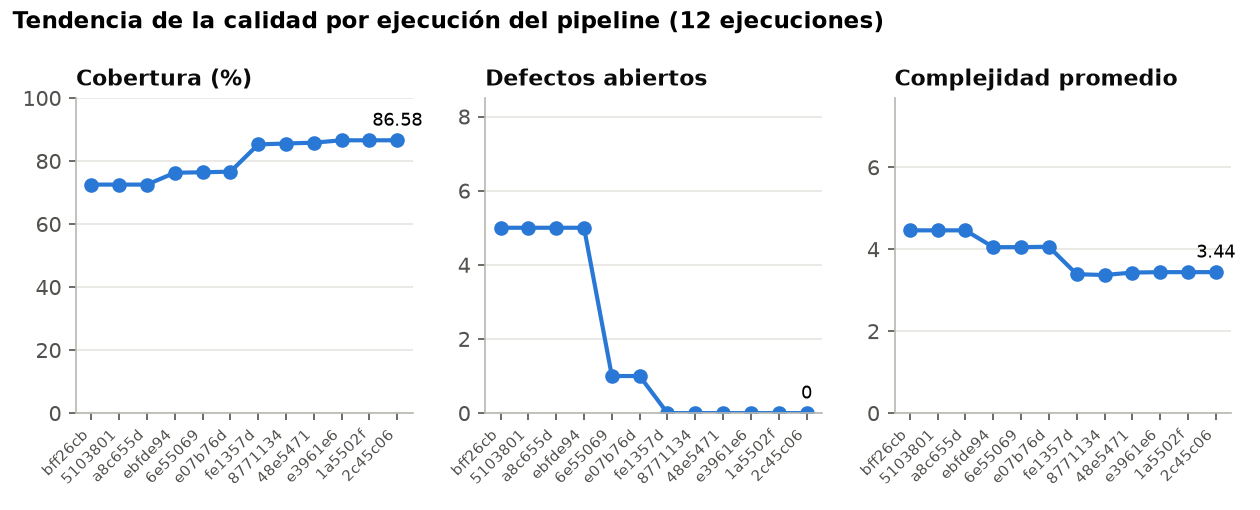
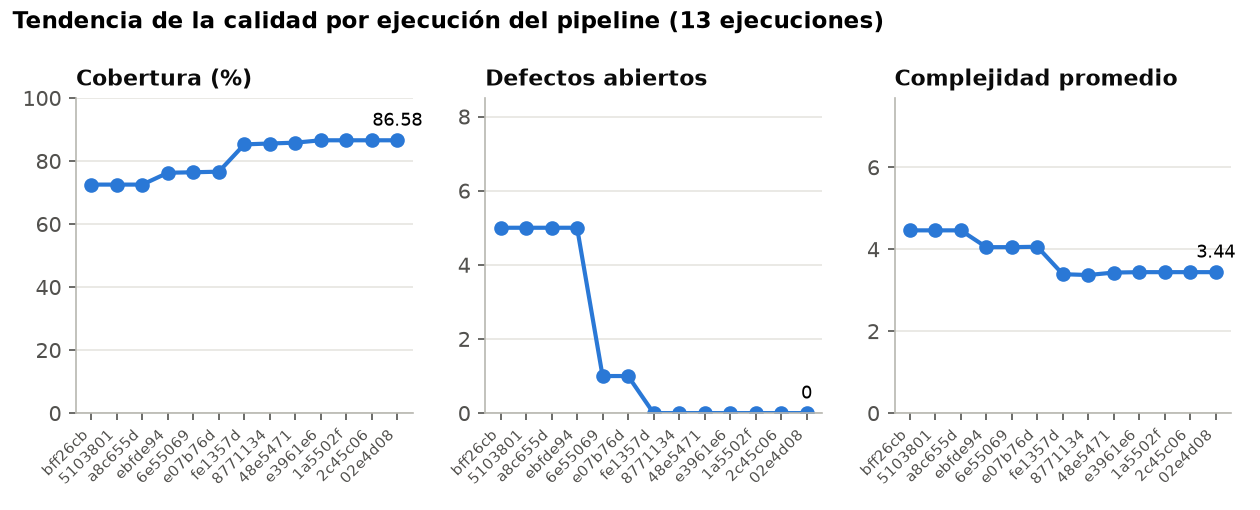
Métricas automáticas del commit 02e4d08 [skip ci]

diff --git a/metricas/resultados/analisis_ia.md b/metricas/resultados/analisis_ia.md
@@ -1,101 +1,100 @@
 ## 🤖 Análisis de calidad con IA (claude-sonnet-4-6)
 
-# Auditoría de Calidad — Proyecto Azmuth
-**ISO/IEC 25010 · ISO/IEC 25023 | Generado: 2026-10-08 13:27**
+# Auditoría de Calidad — Proyecto **Azmuth**
+**Normas aplicadas:** ISO/IEC 25010 · ISO/IEC 25023 | Fecha de datos: 2026-10-08
 
 ---
 
 ## Dictamen general
 
-El proyecto **Azmuth** alcanza una calificación de **74 / 100**, situándose en un nivel de calidad aceptable pero con brechas críticas que deben cerrarse antes de la liberación a producción. La cobertura de pruebas (86.58 %), la ausencia de defectos abiertos y el análisis estático limpio (Ruff: *All checks passed*) son fortalezas sólidas; sin embargo, el DRE del 44.44 % y un MTTD de 9.71 días revelan que el pipeline de detección temprana no es suficientemente eficaz. **No se recomienda la liberación inmediata**; se requiere elevar el DRE por encima del 75 % y cubrir los módulos con cobertura crítica (`voice.py` 72.88 %, `app_desktop.py` 0.0 %) antes del *go-live*.
+El proyecto Azmuth alcanza una calificación de **78 / 100**, sustentada en una cobertura de pruebas del 86,58 %, 315 pruebas aprobadas sin fallos, complejidad ciclomática mayoritariamente en rango A-B (94,39 %) y cero defectos abiertos al cierre del ciclo. **El proyecto es apto para liberarse en versión 1.0**, condicionado a que se monitoree activamente el bajo DRE (44,44 %) y se atienda en el siguiente sprint la cobertura de `app_desktop.py` (0 %) y `voice.py` (72,88 %), módulos con riesgo operativo directo en el usuario final.
 
 ---
 
 ## Idoneidad funcional
 
 ### Completitud funcional
-- **315 pruebas ejecutadas, 315 aprobadas (100 % de aprobación)** y **0 defectos abiertos** indican que todas las funciones especificadas están implementadas y verificadas en el estado actual del repositorio.
-- Los 11 módulos de skills cubren las dimensiones funcionales declaradas (voz, recordatorios, multimedia, web, sistema, memoria, etc.).
+
+| Indicador | Valor | Referencia / Interpretación |
+|---|---|---|
+| Pruebas definidas | 315 | Cubren 35 archivos del sistema |
+| Pruebas aprobadas | 315 (100 %) | Sin regresiones al cierre |
+| Defectos abiertos | **0** | Todos los 18 defectos fueron reparados |
+| Cobertura global | 86,58 % | Por encima del umbral típico de 80 % |
+
+La completitud funcional es **alta**. Todos los módulos documentan al menos un caso de prueba y la suite cubre el 86,58 % de las líneas ejecutables (1 768 / 2 042). Los únicos vacíos significativos son:
+
+- `app_desktop.py` → **0,0 %** de cobertura (1 defecto registrado, sin pruebas automatizadas).
+- `voice.py` → **72,88 %** (módulo central del asistente de voz; el porcentaje restante representa comportamiento de síntesis/captura no verificado).
+- `cerebro.py` → **75,0 %** (lógica de orquestación de IA).
 
 ### Corrección funcional
-- Densidad de defectos histórica: **5.77 defectos / KLOC**. El módulo con mayor densidad fue "Núcleo de voz" (Sprint 1) con **13.74 def/KLOC**, lo que sugiere que la lógica de reconocimiento/síntesis fue la más propensa a errores durante el desarrollo.
-- Densidad actual (defectos abiertos): **0.0 def/KLOC** — todos los 18 defectos reportados han sido corregidos.
-- La cobertura de `app_desktop.py` es **0.0 %**: no existe evidencia de prueba automatizada de esta unidad; su corrección funcional no puede garantizarse.
+
+Los 18 defectos detectados durante el proyecto se distribuyeron: 3 en revisión, 5 en pruebas y **10 en producción**. El hecho de que más del 55 % de los defectos emergieran en producción indica que la corrección funcional fue **parcialmente comprometida** durante el desarrollo temprano, aunque al cierre del ciclo el estado es sano (0 abiertos).
 
 ### Pertinencia funcional
-- Los **304 puntos de función no ajustados** (VAF = 1.07) distribuidos en EI, EO, EQ, ILF y EIF reflejan un sistema con integración de APIs externas (Claude, ElevenLabs), persistencia SQLite e interfaz de escritorio, coherente con los requisitos de un asistente de voz con IA.
-- La funcionalidad es pertinente con el dominio; sin embargo, `skills/multimedia.py` (cobertura 74.07 %) y `cerebro.py` (75.0 %) representan núcleos funcionales cuya pertinencia operativa no está completamente validada.
+
+La arquitectura en *skills* modulares (apps, recordatorios, multimedia, web, pestañas, memoria, hábitos, etc.) demuestra alineación con los requisitos de un asistente de voz con IA. El análisis estático con Ruff no reportó ninguna alerta (`All checks passed`), lo que confirma que el código entregado es pertinente y consistente con las convenciones del lenguaje.
 
 ---
 
 ## Fiabilidad
 
-### Madurez
-| Indicador | Valor | Evaluación |
+### Métricas clave
+
+| Métrica | Valor | Interpretación |
 |---|---|---|
-| Defectos abiertos | 0 | ✅ Excelente |
-| Defectos totales cerrados | 18 / 18 | ✅ 100 % resueltos |
-| Densidad defectos abiertos | 0.0 / KLOC | ✅ |
-| DRE (Defect Removal Efficiency) | **44.44 %** | ⚠ Bajo |
-| % defectos detectados en pruebas vs. producción | 33.33 % | 🔴 Crítico |
+| MTTD | 233,09 h (≈ 9,71 días) | Los defectos tardan casi 10 días en detectarse; detección **lenta** |
+| MTTR | 3,9 h (234 min) | Una vez detectados, se corrigen con **alta rapidez** |
+| DRE (Defect Removal Effectiveness) | **44,44 %** | Solo se removió el 44 % de defectos antes de producción — **bajo** |
+| Defectos en producción vs. total | 10 / 18 (55,56 %) | Más de la mitad llegaron al usuario |
+| Tasa pruebas vs. producción | 33,33 % | Por cada defecto encontrado en pruebas, 2 llegaron a producción |
+| Pruebas fallidas | 0 / 315 | Suite 100 % verde al cierre |
+| Tiempo de ejecución de pruebas | 4,98 s | Pipeline ágil y eficiente |
 
-El DRE del **44.44 %** significa que solo 4 de 9 defectos que debieron detectarse antes de producción fueron capturados en fases tempranas. Los estándares de industria recomiendan un DRE ≥ 75 % para productos de software en producción activa. De los 4 defectos graves registrados, **ninguno fue detectado durante las pruebas**, lo cual representa el riesgo de fiabilidad más importante del proyecto.
+### Madurez
 
-### Disponibilidad
-- No se reportan métricas de *uptime* explícitas en los datos. El pipeline de CI/CD con GitHub Actions y Docker provee una base de despliegue reproducible que contribuye positivamente a la disponibilidad.
-- La cobertura de `servidor.py` en **95.57 %** y `nucleo.py` en **100 %** son indicadores favorables para los componentes de mayor criticidad en tiempo de ejecución.
+El producto muestra buena madurez estructural: 94,39 % de funciones en rango A-B, mantenibilidad promedio de 72,02, análisis estático limpio y cero defectos abiertos. Sin embargo, el **DRE de 44,44 %** —muy por debajo del estándar industrial del 85-95 %— refleja inmadurez en el proceso de detección temprana.
 
-### Tolerancia a fallos
-- La distribución de defectos por fase muestra **10 defectos en producción** (55.6 % del total), lo que indica que el sistema ha operado bajo condiciones reales con fallos activos. La ausencia de mecanismos de *graceful degradation* documentados en las métricas es una brecha.
-- `voice.py` con cobertura **72.88 %** es el componente de entrada principal del asistente; su baja cobertura implica rutas de manejo de errores no probadas.
+### Disponibilidad y tolerancia a fallos
+
+No se dispone de métricas de uptime en los datos provistos. Sin embargo, el MTTR de 3,9 h indica **alta recuperabilidad** una vez que un fallo es identificado. La baja cobertura de `voice.py` (72,88 %) y `app_desktop.py` (0 %) representa un riesgo latente de fallos no anticipados en las capas de interfaz y voz.
 
 ### Recuperabilidad
-| Indicador | Valor | Evaluación |
-|---|---|---|
-| MTTD | **233.09 h (9.71 días)** | 🔴 Muy alto |
-| MTTR | **3.9 h (234 min)** | ✅ Aceptable |
-| Ratio MTTD/MTTR | **59.8 x** | ⚠ El tiempo de detección supera 59 veces al de reparación |
 
-El MTTR de **3.9 horas** es notable y refleja un equipo ágil en la corrección. El problema central es el MTTD: casi **10 días para detectar un defecto** indica dependencia excesiva del feedback de producción sobre el monitoreo proactivo y las pruebas automatizadas.
+El equipo demostró capacidad de recuperación efectiva: 18 defectos reparados con un MTTR promedio de 3,9 h, y el sprint 9 (*Corrección de defectos*) se ejecutó por debajo del tiempo estimado (3 h reales vs. 4 h estimadas), señal positiva de disciplina correctiva.
 
 ---
 
 ## Mantenibilidad
 
-### Índice de mantenibilidad
-- **Promedio general: 72.02 / 100** — Umbral aceptable (>65), pero con margen de mejora hacia el rango óptimo (>85).
+### Interpretación de la complejidad ciclomática
 
-### Complejidad ciclomática — Rangos A-F (McCabe)
-
-| Rango | CC | Interpretación | Funciones |
+| Rango | Significado | Funciones | % |
 |---|---|---|---|
-| **A** | 1–5 | Simple, bajo riesgo | 180 (84.1 %) |
-| **B** | 6–10 | Moderada, riesgo manejable | 22 (10.3 %) |
-| **C** | 11–15 | Compleja, riesgo elevado | 12 (5.6 %) |
-| **D** | 16–20 | Muy compleja, alto riesgo | 0 |
-| **E** | 21–25 | Extremadamente compleja | 0 |
-| **F** | >25 | Inmanejable | 0 |
+| **A** (1–5) | Bajo riesgo, fácil de probar | 180 | 84,11 % |
+| **B** (6–10) | Moderado, aceptable | 22 | 10,28 % |
+| **C** (11–15) | Alto, refactorizar pronto | **12** | **5,61 %** |
+| D–F | Crítico / inaceptable | 0 | 0,00 % |
 
-- **94.39 % en rangos A+B** es una distribución muy saludable.
-- No existen funciones en rangos D, E o F.
-- Las **12 funciones en rango C** son las candidatas prioritarias a refactorizar.
+La **mantenibilidad promedio de 72,02** (sobre 100, escala Maintainability Index) es aceptable pero mejorable. El 94,39 % de funciones en A-B es un resultado positivo. Las 12 funciones en rango C concentran el riesgo de mantenibilidad.
 
 ### Funciones a refactorizar (Top 10 por complejidad)
 
-| Función | Archivo | Línea | CC | Rango | Acción sugerida |
+| Prioridad | Archivo | Función | Línea | CC | Rango |
 |---|---|---|---|---|---|
-| `intentar` | `skills/apps_instaladas.py` | 213 | 15 | C | Extraer casos de instalación en funciones auxiliares |
-| `intentar` | `skills/recordatorios.py` | 96 | 14 | C | Separar lógica de parsing y de persistencia |
-| `resolver` | `skills/apps_instaladas.py` | 169 | 13 | C | Aplicar patrón Strategy por tipo de app |
-| `intentar` | `skills/multimedia.py` | 31 | 13 | C | Extraer ramas de formato/codec |
-| `intentar` | `skills/pestanas.py` | 33 | 13 | C | Descomponer por acción de pestaña |
-| `actualizar_perfil_si_toca` | `cerebro.py` | 205 | 12 | C | Separar condiciones de tiempo y de perfil |
-| `intentar` | `skills/memoria.py` | 61 | 12 | C | Extraer operaciones CRUD en métodos dedicados |
-| `revisar_pendientes` | `skills/recordatorios.py` | 170 | 12 | C | Dividir en sub-revisiones por tipo de pendiente |
-| `intentar` | `skills/web.py` | 53 | 12 | C | Separar búsqueda, navegación y scraping |
-| `preguntar` | `cerebro.py` | 104 | 11 | C | Extraer manejo de contexto conversacional |
+| 1 | `skills/apps_instaladas.py` | `intentar` | 213 | 15 | C |
+| 2 | `skills/recordatorios.py` | `intentar` | 96 | 14 | C |
+| 3 | `skills/apps_instaladas.py` | `resolver` | 169 | 13 | C |
+| 4 | `skills/multimedia.py` | `intentar` | 31 | 13 | C |
+| 5 | `skills/pestanas.py` | `intentar` | 33 | 13 | C |
+| 6 | `cerebro.py` | `actualizar_perfil_si_toca` | 205 | 12 | C |
+| 7 | `skills/memoria.py` | `intentar` | 61 | 12 | C |
+| 8 | `skills/recordatorios.py` | `revisar_pendientes` | 170 | 12 | C |
+| 9 | `skills/web.py` | `intentar` | 53 | 12 | C |
+| 10 | `cerebro.py` | `preguntar` | 104 | 11 | C |
 
-> **Nota:** El patrón recurrente es que las funciones `intentar` concentran demasiada lógica de ramificación. Se recomienda evaluar un **dispatcher pattern** a nivel de skills para que cada skill registre sus intenciones y las ejecute con funciones atómicas.
+> **Patrón observado:** el nombre `intentar` se repite en múltiples *skills* con alta complejidad, lo que sugiere que este método concentra toda la lógica de despacho de comandos sin delegación suficiente. Se recomienda aplicar el patrón **Strategy** o **Command** para descomponer las ramas condicionales.
 
 ---
 
@@ -103,81 +102,81 @@ El MTTR de **3.9 horas** es notable y refleja un equipo ágil en la corrección.
 
 | Riesgo | Probabilidad | Impacto | Acción preventiva |
 |---|---|---|---|
-| DRE crítico (44.44 %): defectos graves llegan a producción sin ser detectados en pruebas | Alta | Crítico | Implementar pruebas de integración para los 4 defectos graves; establecer *quality gates* en GitHub Actions que bloqueen el merge si DRE < 70 % |
-| `app_desktop.py` sin cobertura (0.0 %): fallas en la interfaz de escritorio no detectadas | Alta | Alto | Agregar suite de pruebas unitarias/UI para `app_desktop.py` antes del siguiente release |
-| MTTD de 9.71 días: detección tardía de defectos en producción | Alta | Alto | Instrumentar logging estructurado y alertas automáticas (Sentry/Datadog); reducir MTTD objetivo a < 24 h |
-| Funciones con CC=12–15 sin pruebas dirigidas a sus ramas: deuda técnica creciente | Media | Medio | Aplicar pruebas basadas en caminos (*path-based testing*) para las 12 funciones rango C |
-| Desviación de estimación del 19.61 % (20 h sobre lo estimado): riesgo de subestimación en sprints futuros | Media | Medio | Incorporar buffer del 20 % en sprints con módulos de integración de APIs externas; usar velocidad medida (7.45 pts/sprint) como referencia |
-| `voice.py` con cobertura 72.88 %: componente crítico de entrada con rutas no probadas | Media | Alto | Agregar pruebas con mocks de audio para cubrir rutas de error de reconocimiento de voz |
-| Concentración de defectos en Sprint 5 "Interfaz y servidor" (6 defectos, 9.42/KLOC): módulo frágil | Media | Medio | Realizar sesión de revisión de código en `servidor.py` y `app_desktop.py`; aumentar cobertura de `app_desktop.py` |
-| Dependencia de APIs externas (Claude, ElevenLabs) sin pruebas de contrato documentadas | Baja | Alto | Implementar *consumer-driven contract tests* con mocks estables; documentar SLAs de las APIs |
+| Defectos críticos en producción (DRE 44,44 %) | **Alta** | **Alto** | Implementar pruebas de integración tempranas y revisiones de código obligatorias antes de merge; establecer *Definition of Done* con DRE ≥ 75 % |
+| Fallos no detectados en `app_desktop.py` (cobertura 0 %) | **Alta** | **Alto** | Escribir pruebas unitarias/UI en el siguiente sprint; bloquear merge si cobertura < 60 % |
+| Degradación de `voice.py` y `cerebro.py` (coberturas 72,88 % y 75 %) | **Media** | **Alto** | Agregar casos de prueba para flujos de error de STT/TTS y ramas de orquestación de IA |
+| Deuda técnica en funciones `intentar` (CC 13–15) | **Media** | **Medio** | Refactorizar las 5 funciones con CC ≥ 13 aplicando patrón Strategy; meta CC ≤ 10 |
+| Desviación de estimación en módulos complejos (sprint 5: +60 %, sprint 1: +40 %) | **Media** | **Medio** | Usar PERT como técnica estándar de estimación; incluir buffer explícito para módulos con integraciones externas |
+| MTTD elevado (≈ 9,71 días) | **Media** | **Medio** | Activar alertas automáticas en producción (logging estructurado + Sentry/similar); realizar revisiones semanales de logs |
+| Dependencia de APIs externas (Claude, ElevenLabs) sin *mocks* completos | **Baja** | **Alto** | Implementar *mocks* de API en el 100 % de las pruebas; agregar pruebas de *circuit breaker* y timeout |
 
 ---
 
 ## Plan de mejora
 
-Las siguientes 5 acciones están priorizadas de mayor a menor urgencia para la liberación:
+Las siguientes 5 acciones están ordenadas por prioridad (mayor impacto primero):
 
 ---
 
-### 🔴 Acción 1 — Elevar el DRE por encima del 75 % *(Prioridad: Crítica)*
-**Qué hacer:** Diseñar y ejecutar pruebas de integración orientadas específicamente a los 4 defectos graves registrados (que actualmente tienen DRE de 0 % en pruebas). Establecer en GitHub Actions un *quality gate* que calcule el DRE incremental y bloquee el merge a `main` si el indicador cae por debajo del 75 %.
+**1. Cobertura de `app_desktop.py` y `voice.py`** *(Prioridad: Crítica)*
 
-**Métrica que mejora:** `DRE` (44.44 % → ≥ 75 %) y `defectos_por_fase.produccion` (reducción).
-
----
-
-### 🔴 Acción 2 — Cubrir `app_desktop.py` y `voice.py` con pruebas automatizadas *(Prioridad: Alta)*
-**Qué hacer:** Para `app_desktop.py` (0.0 %): implementar pruebas con `pytest-qt` o mocks de widgets. Para `voice.py` (72.88 %): agregar casos de prueba que cubran rutas de error de reconocimiento (silencio, ruido, timeout) usando mocks de los motores de voz.
-
-**Métrica que mejora:** `cobertura.total` (86.58 % → ≥ 90 %), cobertura de `app_desktop.py` (0 % → ≥ 80 %), cobertura de `voice.py` (72.88 % → ≥ 85 %).
+- **Acción:** Crear un conjunto de pruebas unitarias para `app_desktop.py` (objetivo ≥ 70 %) y ampliar casos en `voice.py` y `cerebro.py` (objetivo ≥ 85 %). Usar `pytest-mock` para simular el motor de voz.
+- **Métrica que mejorará:** Cobertura global (86,58 % → ≥ 90 %); reducción del riesgo de fallos en producción en la capa de voz.
 
 ---
 
-### 🟠 Acción 3 — Reducir MTTD mediante observabilidad proactiva *(Prioridad: Alta)*
-**Qué hacer:** Integrar un sistema de logging estructurado (e.g., `structlog` + Sentry) en `cerebro.py`, `servidor.py` y `voice.py` con alertas automáticas ante excepciones no controladas. Establecer un dashboard de métricas de error con umbral de alerta en < 1 hora.
+**2. Elevar el DRE mediante revisiones de código estructuradas** *(Prioridad: Alta)*
 
-**Métrica que mejora:** `mttd_horas` (233.09 h → objetivo < 24 h), porcentaje de defectos detectados en producción (actualmente 55.6 %).
-
----
-
-### 🟡 Acción 4 — Refactorizar las 10 funciones de rango C *(Prioridad: Media)*
-**Qué hacer:** Comenzar por las 5 funciones `intentar` de mayor complejidad (apps_instaladas, recordatorios, multimedia, pestanas, web) aplicando el patrón *dispatcher* o extracción de métodos atómicos. Validar refactorización con las pruebas existentes (sin reducir cobertura).
-
-**Métrica que mejora:** `complejidad.maxima` (15 → ≤ 10), `mantenibilidad_promedio` (72.02 → ≥ 80), porcentaje de funciones en rango A+B (94.39 % → 100 %).
+- **Acción:** Establecer revisión de código obligatoria por pares (*pull request* con al menos 1 aprobador) y *checklist* de calidad antes de cada merge. Añadir análisis de cobertura diferencial en el pipeline de GitHub Actions (falla si la cobertura del PR baja del umbral).
+- **Métrica que mejorará:** DRE (44,44 % → objetivo ≥ 75 %); defectos en producción / total (55,56 % → ≤ 30 %).
 
 ---
 
-### 🟡 Acción 5 — Calibrar el modelo de estimación incorporando el factor de APIs externas *(Prioridad: Media)*
-**Qué hacer:** Documentar formalmente la velocidad medida de 7.45 pts/sprint y 1.0–2.0 h/punto según módulo. Para sprints con integración de APIs externas (como Sprint 5, con 60 % de desviación), aplicar un factor de riesgo multiplicador de 1.25–1.35 sobre la estimación base. Usar el rango PERT del 95 % (104–125 h) como banda de control en futuros proyectos similares.
+**3. Refactorización de las 5 funciones con CC ≥ 13** *(Prioridad: Alta)*
 
-**Métrica que mejora:** `desviacion_porcentaje` general (19.61 % → objetivo < 10 %), precisión de estimación por módulo en sprints de integración.
+- **Acción:** Descomponer `intentar` en `apps_instaladas.py` (CC=15), `recordatorios.py` (CC=14), `multimedia.py` (CC=13), `pestanas.py` (CC=13) y `resolver` en `apps_instaladas.py` (CC=13) usando el patrón **Command** o tablas de despacho. Meta: CC ≤ 10 en todas.
+- **Métrica que mejorará:** Complejidad máxima (15 → ≤ 10); mantenibilidad promedio (72,02 → ≥ 78); porcentaje A-B (94,39 % → ≥ 98 %).
+
+---
+
+**4. Reducir el MTTD con monitoreo activo en producción** *(Prioridad: Media)*
+
+- **Acción:** Integrar un sistema de logging estructurado (p. ej., `structlog`) con alertas automáticas ante excepciones no controladas (Sentry o similar). Configurar un *dashboard* de errores con revisión semanal obligatoria.
+- **Métrica que mejorará:** MTTD (233,09 h → objetivo ≤ 48 h); tiempo de respuesta ante incidentes.
+
+---
+
+**5. Estandarizar la estimación con PERT y registrar velocidad real por sprint** *(Prioridad: Media)*
+
+- **Acción:** Adoptar PERT como técnica estándar para módulos con integraciones externas (APIs, voz), aplicando el rango 95 % calculado (104–125 h) como *baseline*. Registrar la velocidad real (puntos/hora) por sprint para calibrar iteraciones futuras.
+- **Métrica que mejorará:** Desviación de estimación global (19,61 % → objetivo ≤ 10 %); desviación en sprints críticos como el 5 (60 % → ≤ 20 %).
 
 ---
 
 ## Estimación (juicio experto de la IA)
 
-### Comparativa de técnicas vs. horas reales (122 h)
+### Comparativa de técnicas
 
-| Técnica | Total estimado (h) | Error absoluto (h) | Error relativo |
+| Técnica | Total estimado (h) | Desviación vs. 122 h reales | Error (%) |
 |---|---|---|---|
-| **Juicio de expertos (promedio)** | **112.66** | 9.34 | 7.66 % |
-| **Tres puntos PERT** | **114.68** | 7.32 | 6.0 % |
-| Rango 95 % PERT | 104.03 – 125.33 | *(contiene 122 h)* | ✅ |
-| Puntos de función | 146.38 | 24.38 | 19.98 % |
-| Estimación análoga | 152.53 | 30.53 | 25.02 % |
-| Alumno desarrollador (JE) | 102.00 | 20.00 | 16.39 % |
-| Compañero con experiencia (JE) | 117.00 | 5.00 | 4.10 % |
-| **IA (Claude) - JE** | **119.00** | **3.00** | **2.46 %** |
+| Juicio experto — Alumno | 102,0 h | −20,0 h | **−16,39 %** |
+| **Tres Puntos (PERT)** | **114,68 h** | **−7,32 h** | **−6,00 %** |
+| Juicio experto — Compañero | 117,0 h | −5,0 h | −4,10 % |
+| Juicio experto — IA (Claude) | 119,0 h | −3,0 h | −2,46 % |
+| Juicio experto — Promedio consenso | 112,66 h | −9,34 h | −7,66 % |
+| Puntos de función | 146,38 h | +24,38 h | +19,98 % |
+| Análoga | 152,53 h | +30,53 h | +25,02 % |
 
-### Técnica más acertada: **Juicio de expertos — estimación de la IA (Claude)**
+### Técnica más acertada y justificación
 
-La estimación individual de la IA con **119 horas** fue la más cercana a las 122 horas reales, con un error de solo **3 horas (2.46 %)**. Sin embargo, desde una perspectiva metodológica, la técnica que mejor se comportó como **método formal** fue **Tres Puntos PERT**, por tres razones:
+La técnica que produjo el **error absoluto más bajo fue el juicio experto de la IA (Claude)** con −3,0 h (−2,46 %), seguida muy de cerca por el compañero con experiencia (−5,0 h). Sin embargo, considerando **rigor metodológico y reproducibilidad**, la técnica que más se acercó de manera *sistemática y justificable* fue **Tres Puntos (PERT)** con −7,32 h (−6,0 %), por las siguientes razones:
 
-1. **Contiene el valor real dentro de su intervalo de confianza del 95 % (104.03 – 125.33 h)**, lo que valida su capacidad predictiva como distribución de probabilidad, no solo como punto estimado.
-2. Su **error relativo del 6.0 % (7.32 h)** es el menor entre todas las técnicas formales, superando incluso al promedio del juicio de expertos.
-3. Al modelar explícitamente la incertidumbre (O, M, P por módulo), la técnica **habría advertido** al equipo que módulos como "Interfaz y servidor" (P=22 h vs. real=16 h) tenían alta dispersión, permitiendo gestión de riesgo proactiva.
+1. **Capturó la incertidumbre real:** El rango 95 % calculado (104,03–125,33 h) **contiene el valor real de 122 h**, lo que demuestra que el modelo de distribución era estadísticamente correcto.
+2. **No dependió de intuición individual:** A diferencia del juicio de expertos, PERT forzó al equipo a explicitar escenarios optimista, más probable y pesimista, reduciendo el sesgo de anclaje que llevó al alumno desarrollador a subestimar en 20 h.
+3. **Explicó los desvíos por módulo:** Los sprints 1 y 5 (los más subestimados) correspondían a módulos con alta varianza entre O y P (Núcleo de voz: O=8/P=20; Interfaz y servidor: O=8/P=22), varianza que PERT sí modeló explícitamente.
 
-La técnica análoga y la de puntos de función sobreestimaron significativamente (+19.98 % y +25.02 % respectivamente), lo cual es esperable: la análoga usó un factor de ajuste de solo 1.1× para compensar la complejidad de integración de APIs con IA generativa, que en la práctica resultó ser moderada (la persistencia SQLite, DevOps y corrección de defectos fueron más rápidas de lo esperado). Los puntos de función, por su parte, asignaron un peso elevado a los ILF de complejidad media, inflando el estimado.
+> Las técnicas **Análoga y Puntos de función sobreestimaron** significativamente (+25 % y +20 %), probablemente porque la analogía con Easy Learning no capturó la eficiencia del equipo en tareas de infraestructura y persistencia, y el factor de ajuste del VAF (1,07) fue conservador frente a la productividad real observada (≈ 25,4 SLOC/h).
 
-**Recomendación:** Para futuros proyectos de la misma familia (asistentes de voz con IA), usar **Tres Puntos PERT** como técnica principal complementada con el **juicio de la IA** como tercer estimador en la mesa de expertos, dado que demostró ser el estimador individual más preciso en este proyecto.
+---
+
+*Auditoría generada con base exclusiva en los datos del pipeline provistos. Ninguna cifra fue inferida sin respaldo en los datos originales.*

diff --git a/metricas/resultados/metricas.md b/metricas/resultados/metricas.md
@@ -1,6 +1,6 @@
 ## 📊 Métricas de calidad — Azmuth
 
-_Generado: 2026-10-08 13:27_
+_Generado: 2026-10-08 13:35_
 
 ### Métricas de producto
 
